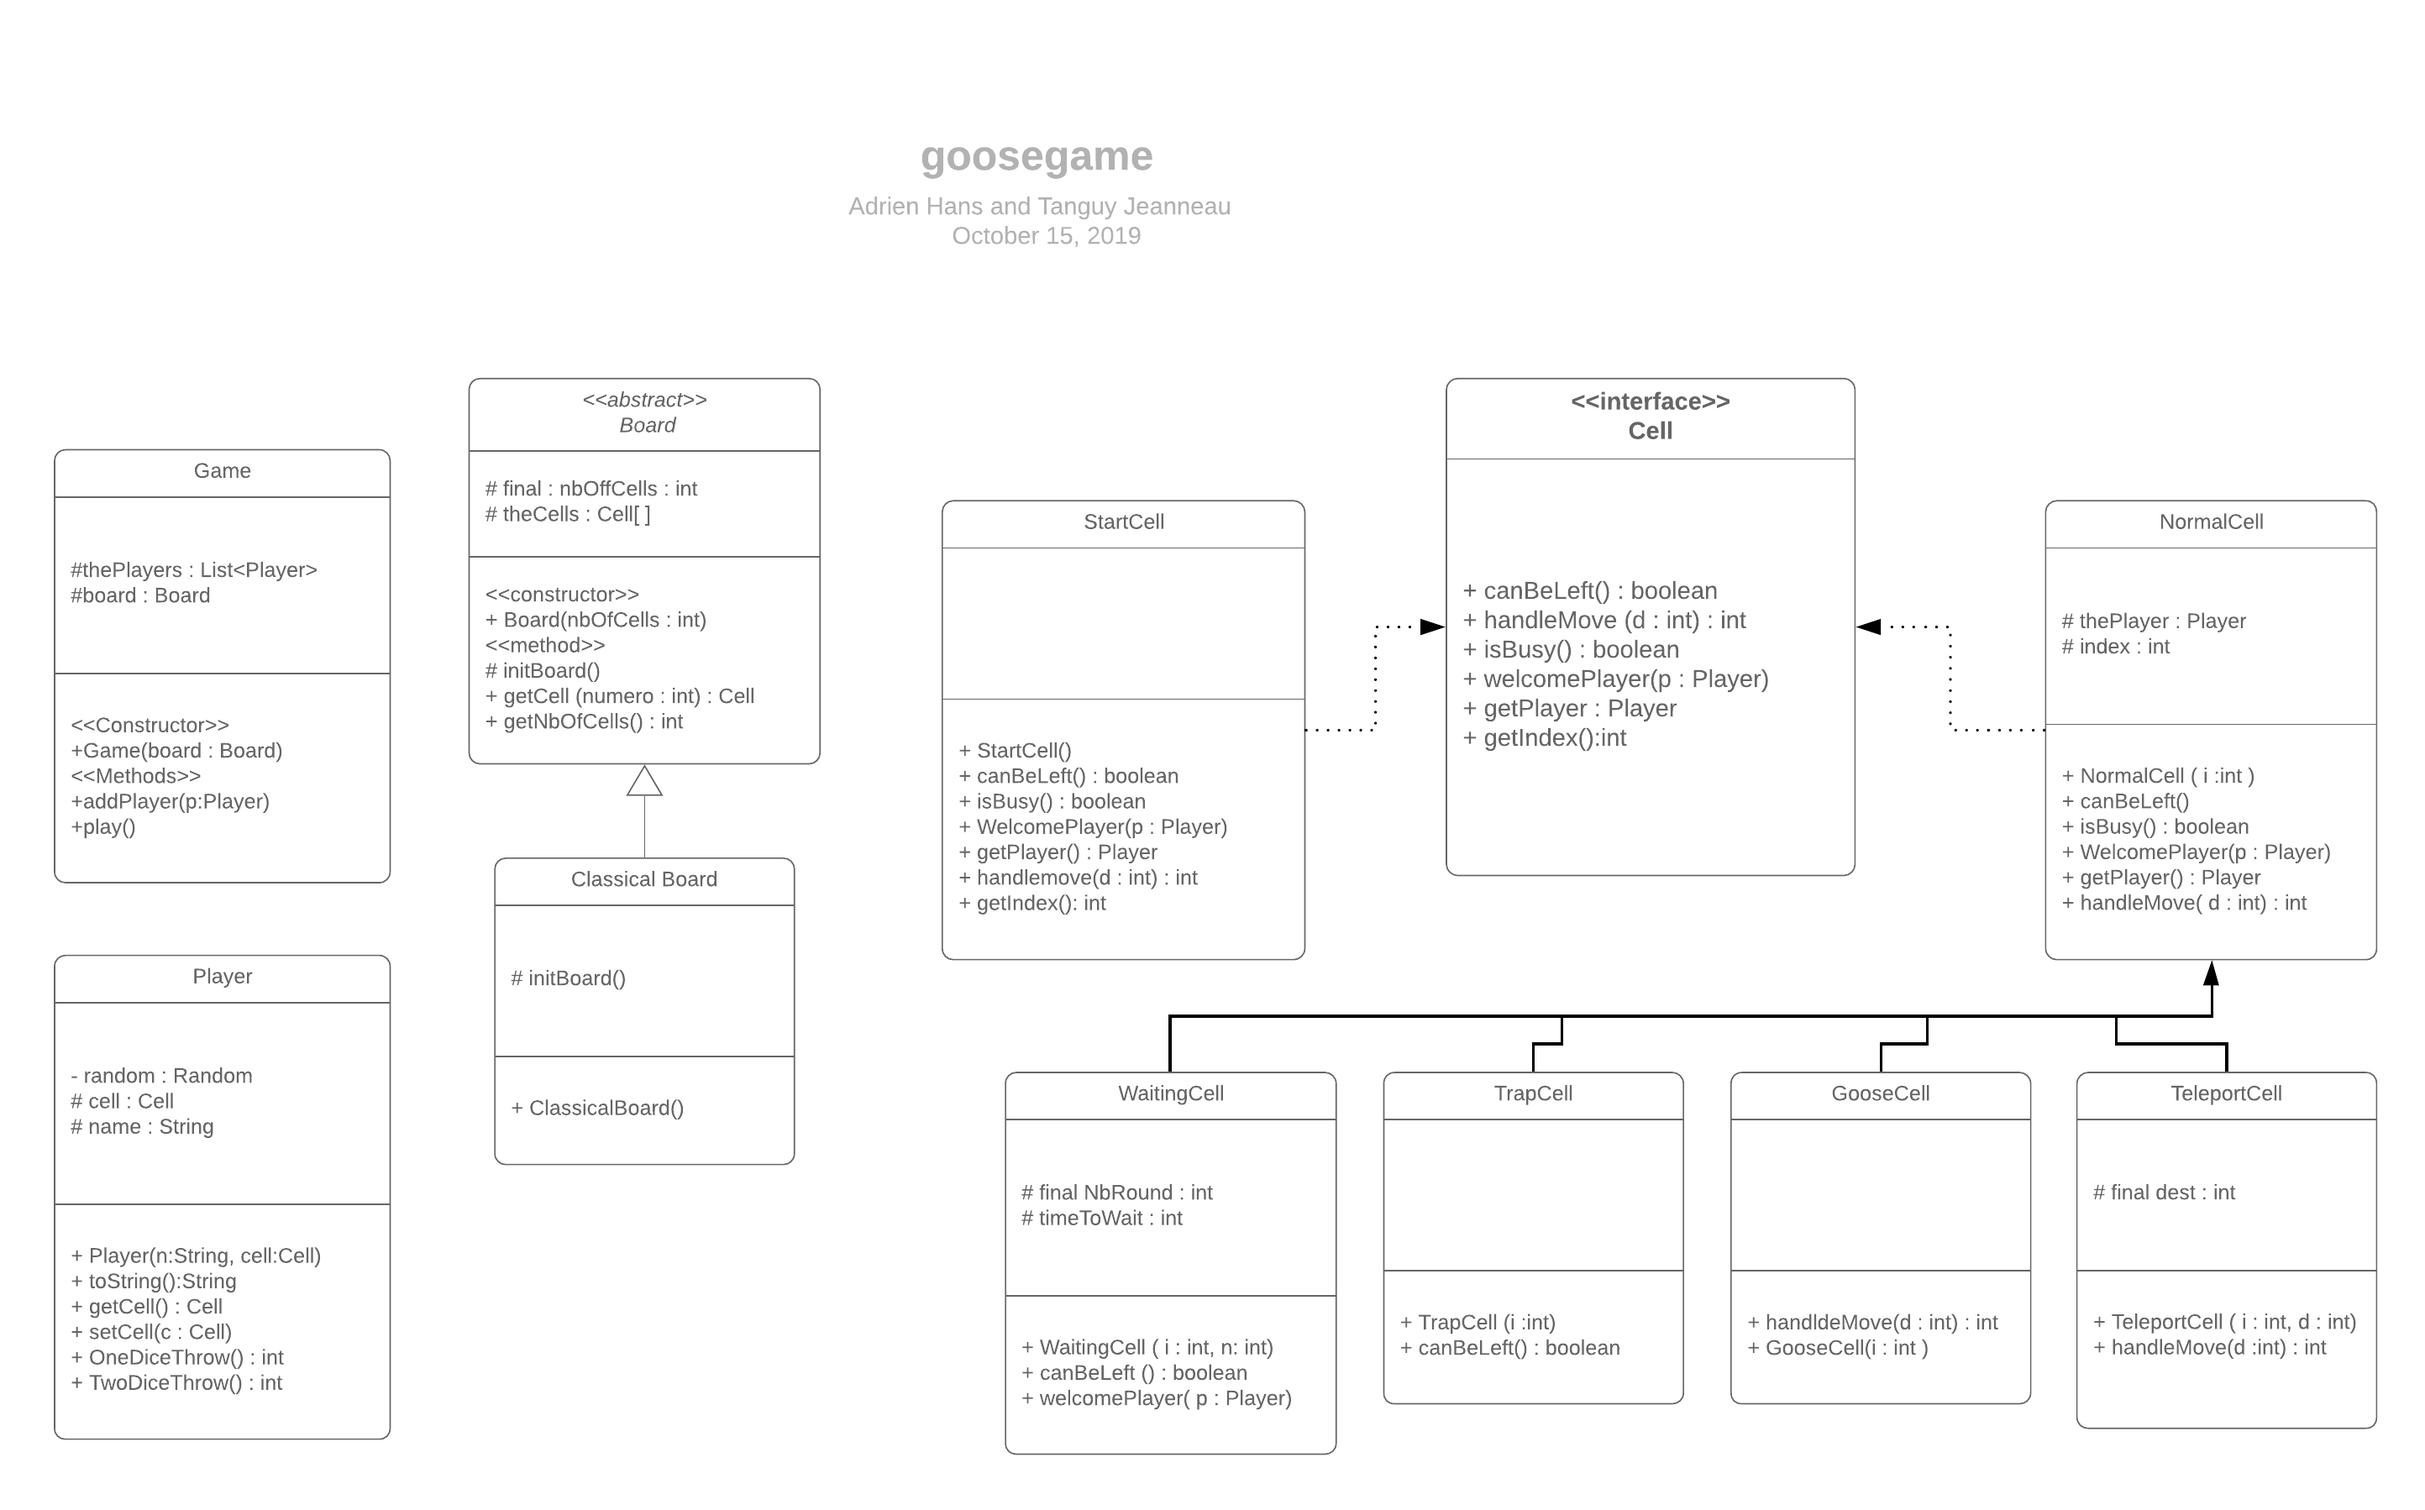
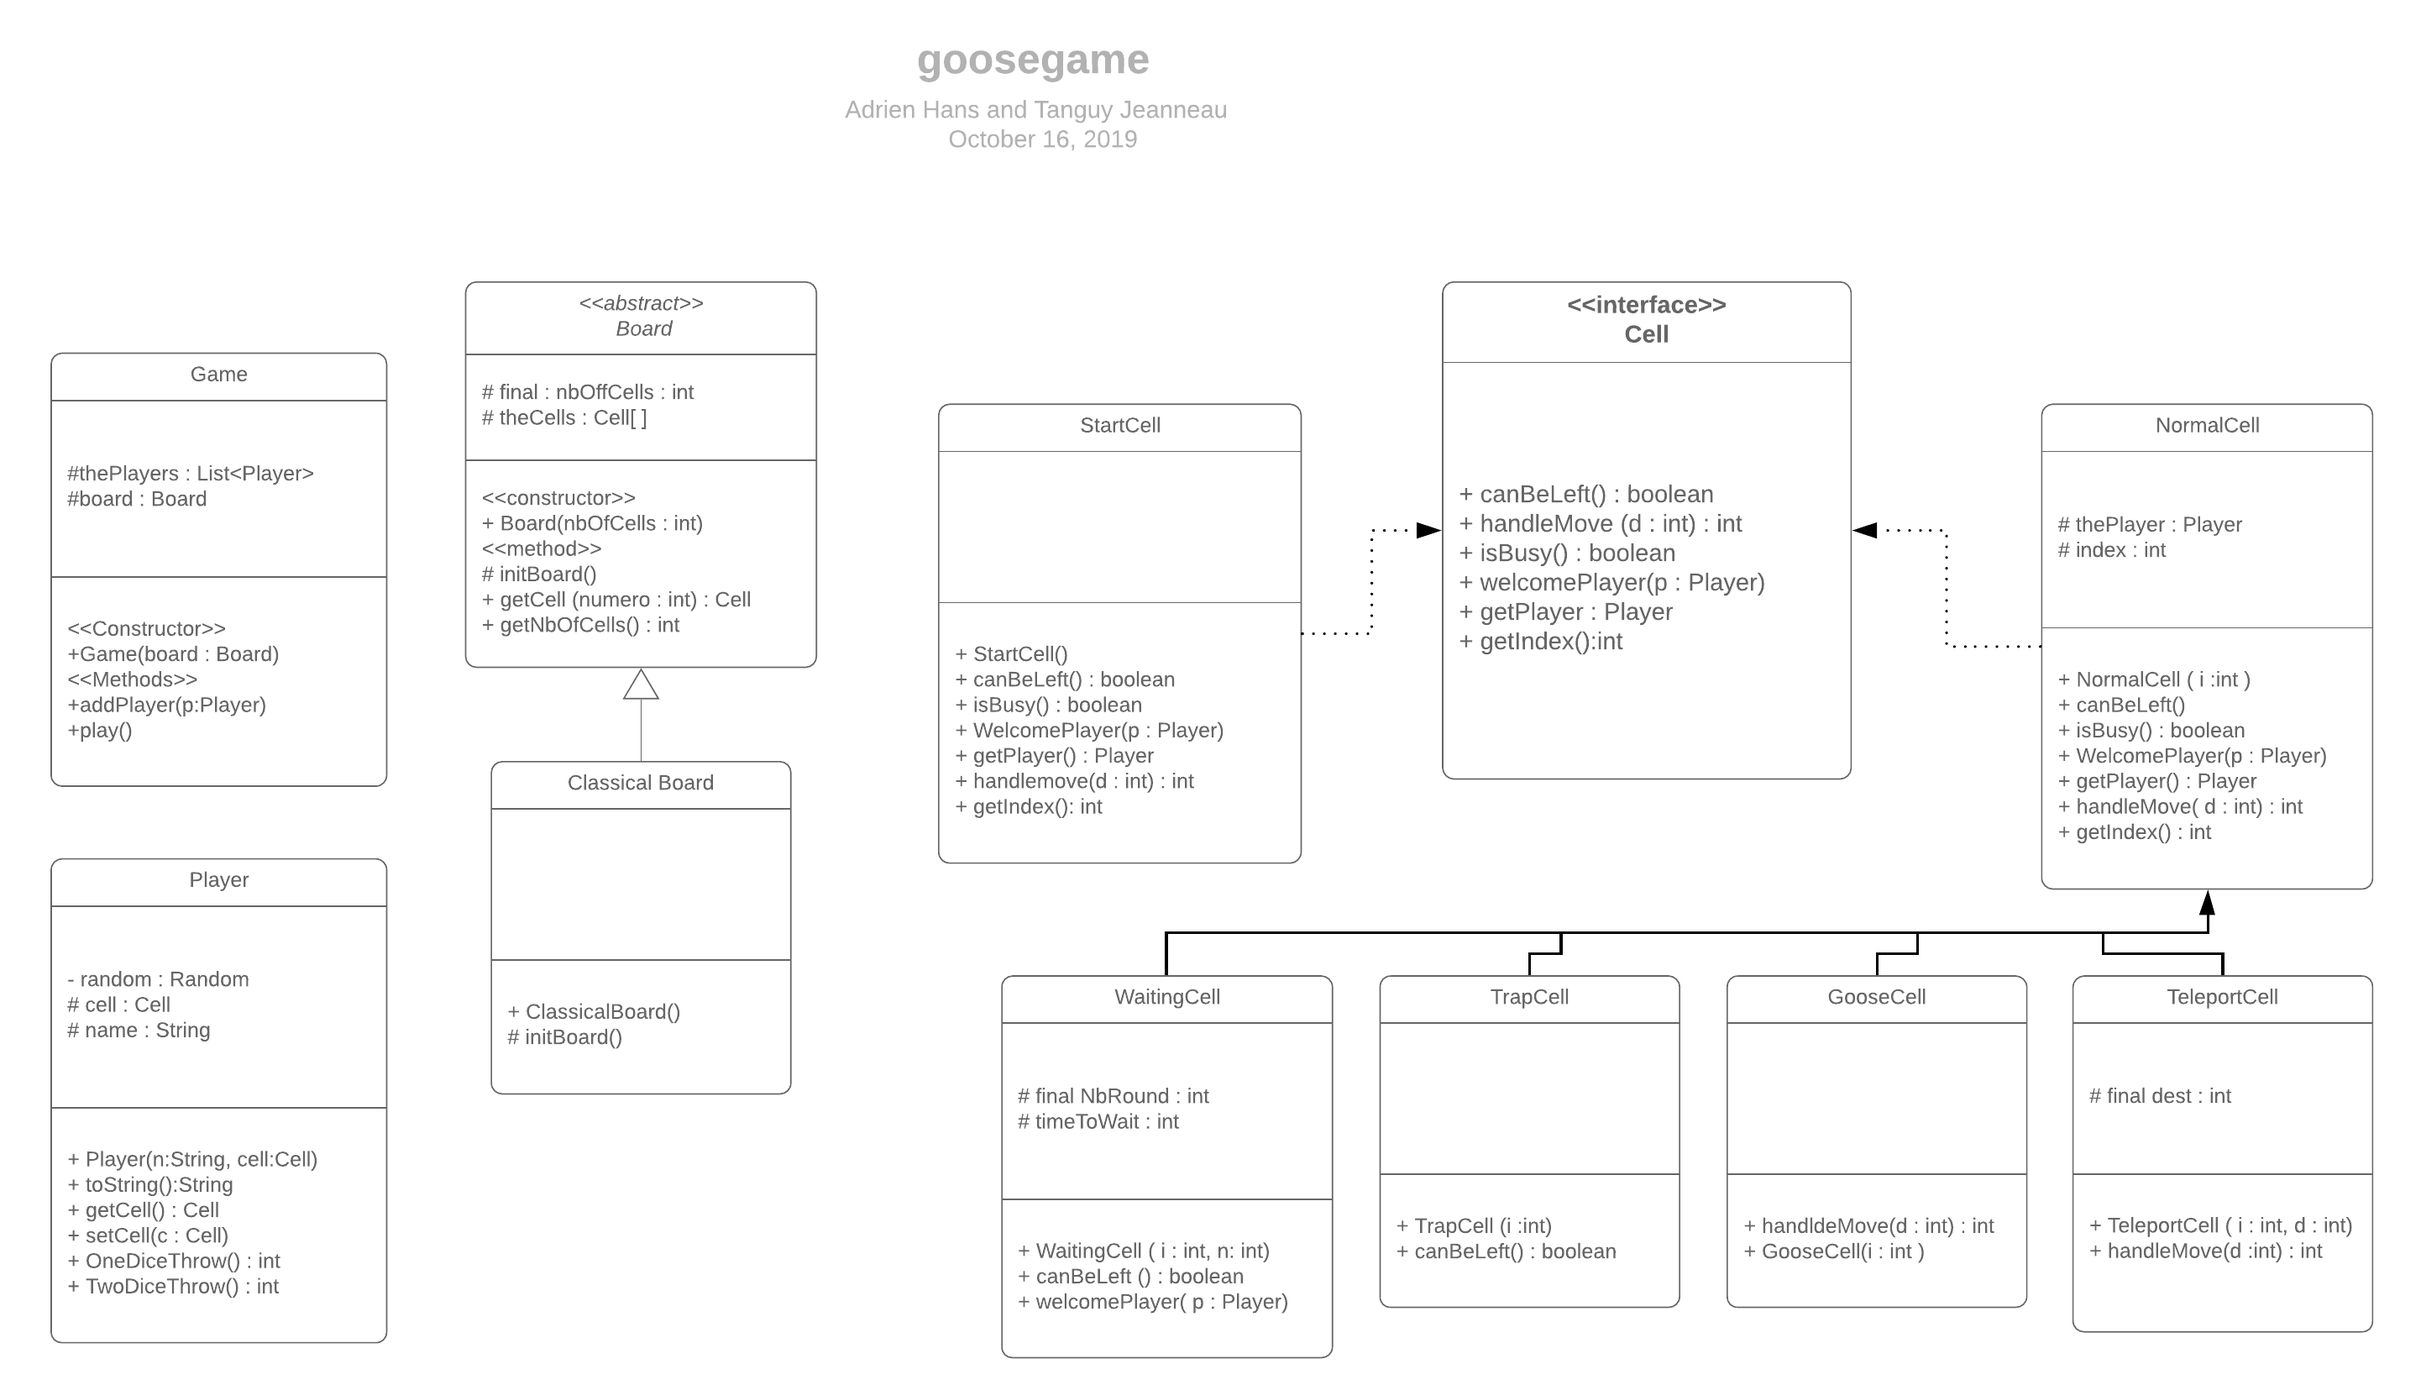
JAVA/TP3
Readme.md and picture of the UML

diff --git a/Java/TP3/readme.md b/Java/TP3/readme.md
@@ -31,4 +31,12 @@ La case 0 est gérée par la sous-classe `StartCell` de la classe `Cell`.
 Elle définit les propriétés de la case 0, c'est-à-dire de la case départ, notamment en renvoyant toujours `True` pour canBeLeft() et ne renvoie rien pour WelcomePlayer(p : Player).
 
 ## Q5 : 
-Le programme correspondant au jeu de l'oie et tel que décrit plus haut est joint à ce fichier. 
+Le programme correspondant au jeu de l'oie et tel que décrit plus haut est joint à ce fichier. <br>
+
+Par rapport à la version UML vue en classe, afin d'avoir une trace cohérente avec le sujet, les méthodes suivantes ont été ajoutées : <br>
+
+- getBoard() dans Game, afin d'avoir accès au plateau en cours et surtout au nombre de cases de celui-ci (afin de vérfier que la case arrivée n'est pas dépassée par exemple).
+- setTheCells(Cell[] cells) pour pouvoir contruire les cases du plateau.
+- HandleMove dans WaitingCell et TrapCell pour pouvoir réaliser la trace voulue de la partie (cela évitait d'avoir à implémenter des ToString dans chaque Cell, et surtout de modifier la classe Cell elle-même). <br>
+
+Certaines difficultés, notamment le fait de gérer le dépassement de la case arrivée suite au saut sur la case oie 54 avec un lancer de dés supérieur à 10, ont été résolus. <br>
